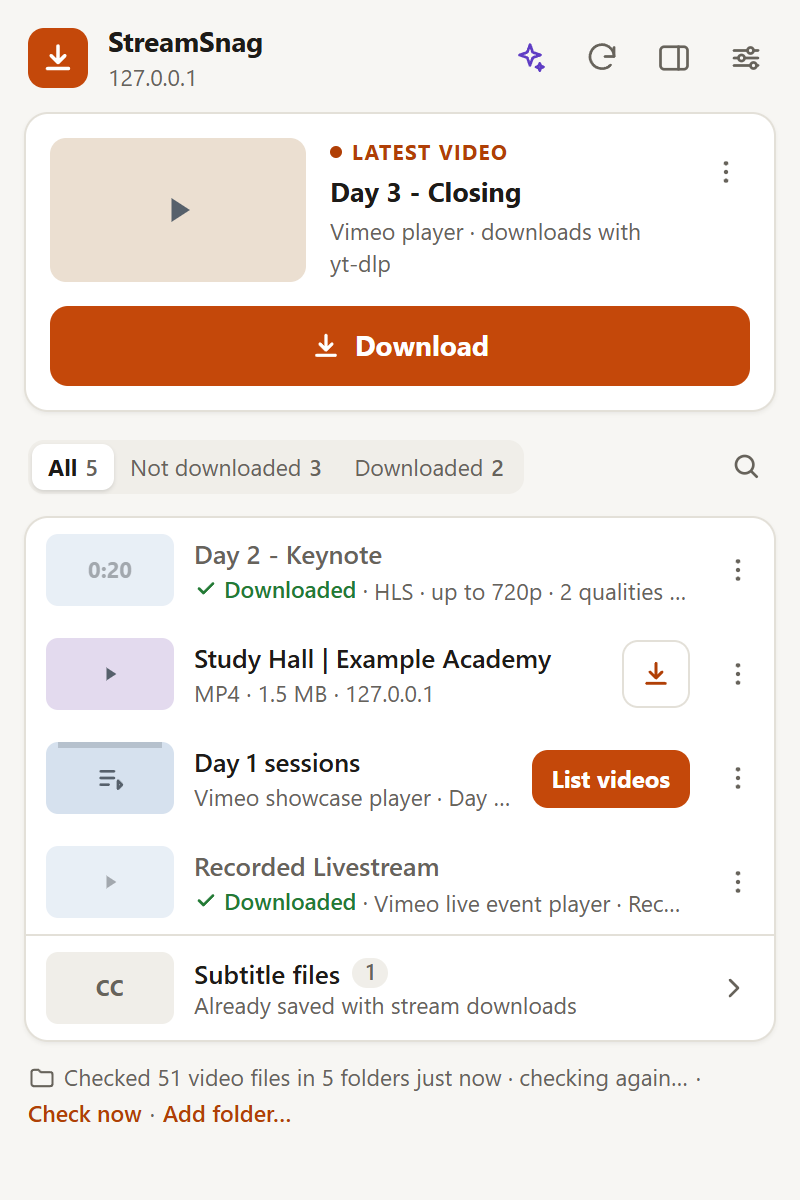
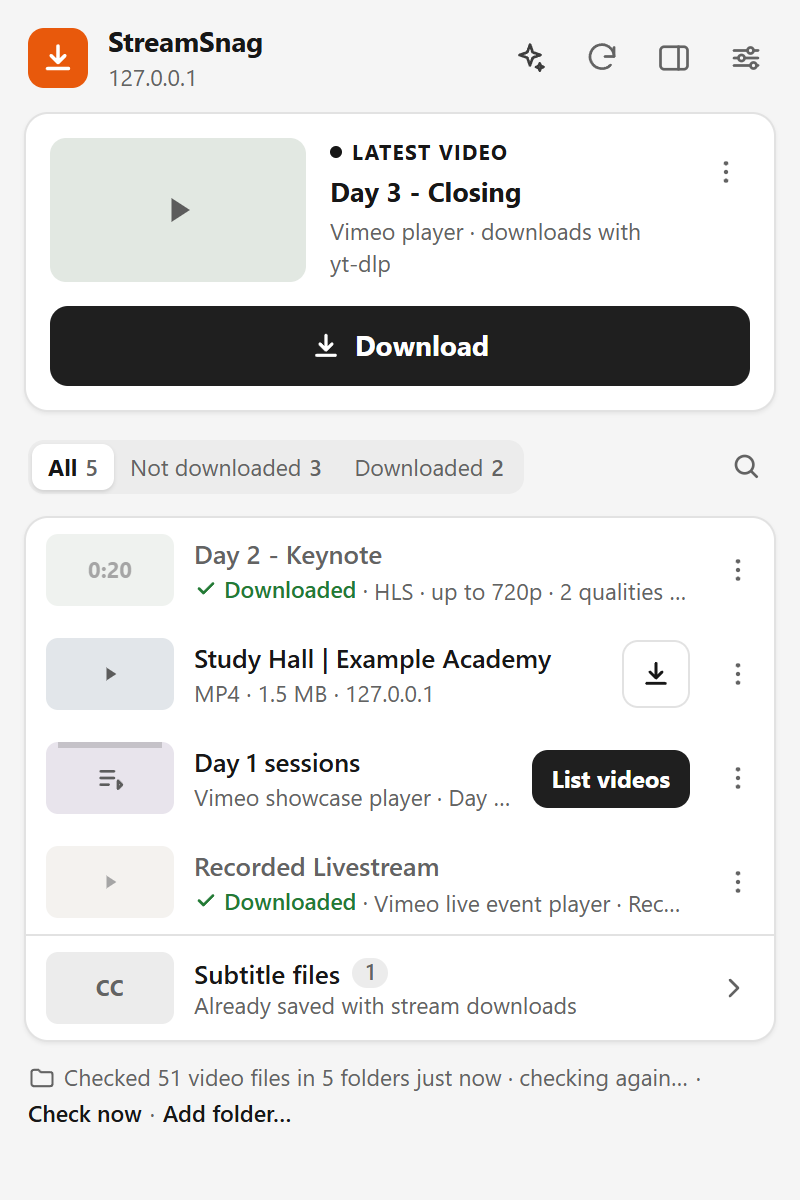
Neutral grey light theme
Light mode now matches dark: neutral greys with a near-black primary button,
and orange only in the logo. The settings page shares the same tokens.
README screenshots refreshed.

Claude-Session: https://claude.ai/code/session_013qZRi4WK5kboJtEnD75cby

diff --git a/extension/popup.css b/extension/popup.css
@@ -1,31 +1,31 @@
 /* StreamSnag: shared look for the popup, the sidebar and (with options.css) the settings page.
    Light: warm paper with StreamSnag orange. Dark ("graphite"): neutral greys, orange only in the logo. */
 :root {
-  --bg: #f7f6f3;
+  --bg: #f5f5f5;
   --surface: #ffffff;
-  --surface-2: #f0eee9;
-  --text: #1d1b18;
-  --muted: #67635b;
-  --line: #e3e0d8;
-  --accent: #c4480a;
+  --surface-2: #ececec;
+  --text: #171717;
+  --muted: #636363;
+  --line: #e2e2e2;
+  --accent: #1f1f1f;
   --accent-ink: #ffffff;
-  --accent-soft: #fdebdf;
-  --accent-text: #b03f06;
-  --accent-bar: #f9d3b9;
+  --accent-soft: #e9e9e9;
+  --accent-text: #171717;
+  --accent-bar: #cfcfcf;
   --ok: #237a35;
   --ok-soft: #e3f3e6;
   --warn: #a35200;
   --err: #c92a2a;
-  --ai: #5f3dc4;
-  --ai-soft: #efeafd;
-  --logo: #c4480a;
-  --tint-0: #d6e1ee;
-  --tint-1: #ebdfd1;
-  --tint-2: #d9e6d5;
-  --tint-3: #e3daee;
-  --thumb-ink: #56606b;
-  --shadow: 0 1px 2px rgba(29, 27, 24, .06);
-  --pop: 0 12px 32px rgba(29, 27, 24, .16);
+  --ai: #3d3d3d;
+  --ai-soft: #ececec;
+  --logo: #e8590c;
+  --tint-0: #e2e6ea;
+  --tint-1: #ebe7e2;
+  --tint-2: #e2e8e2;
+  --tint-3: #e8e4ec;
+  --thumb-ink: #5c5c5c;
+  --shadow: 0 1px 2px rgba(0, 0, 0, .06);
+  --pop: 0 12px 32px rgba(0, 0, 0, .16);
   --seg-on: #ffffff;
   --radius: 12px;
   color-scheme: light;

diff --git a/CHANGELOG.md b/CHANGELOG.md
@@ -5,7 +5,7 @@
 * **New look:** the latest video on the page gets a large card with its qualities and one Download
   button; everything else is a compact list with small download buttons, and videos you already have
   fade back with a ✓. AI tools and yt-dlp sit behind one ✨ button, search and sort behind 🔍, and a bar
-  at the bottom shows what's downloading. Dark mode is now neutral grey, with orange only in the logo.
+  at the bottom shows what's downloading. Light and dark mode are now neutral grey, with orange only in the logo.
   A "Finish setup" card appears when the local helper isn't installed, and an empty page explains what
   to try next.
 * **Playlists:** **List videos** asks yt-dlp for every video in a playlist or Vimeo showcase, so you
